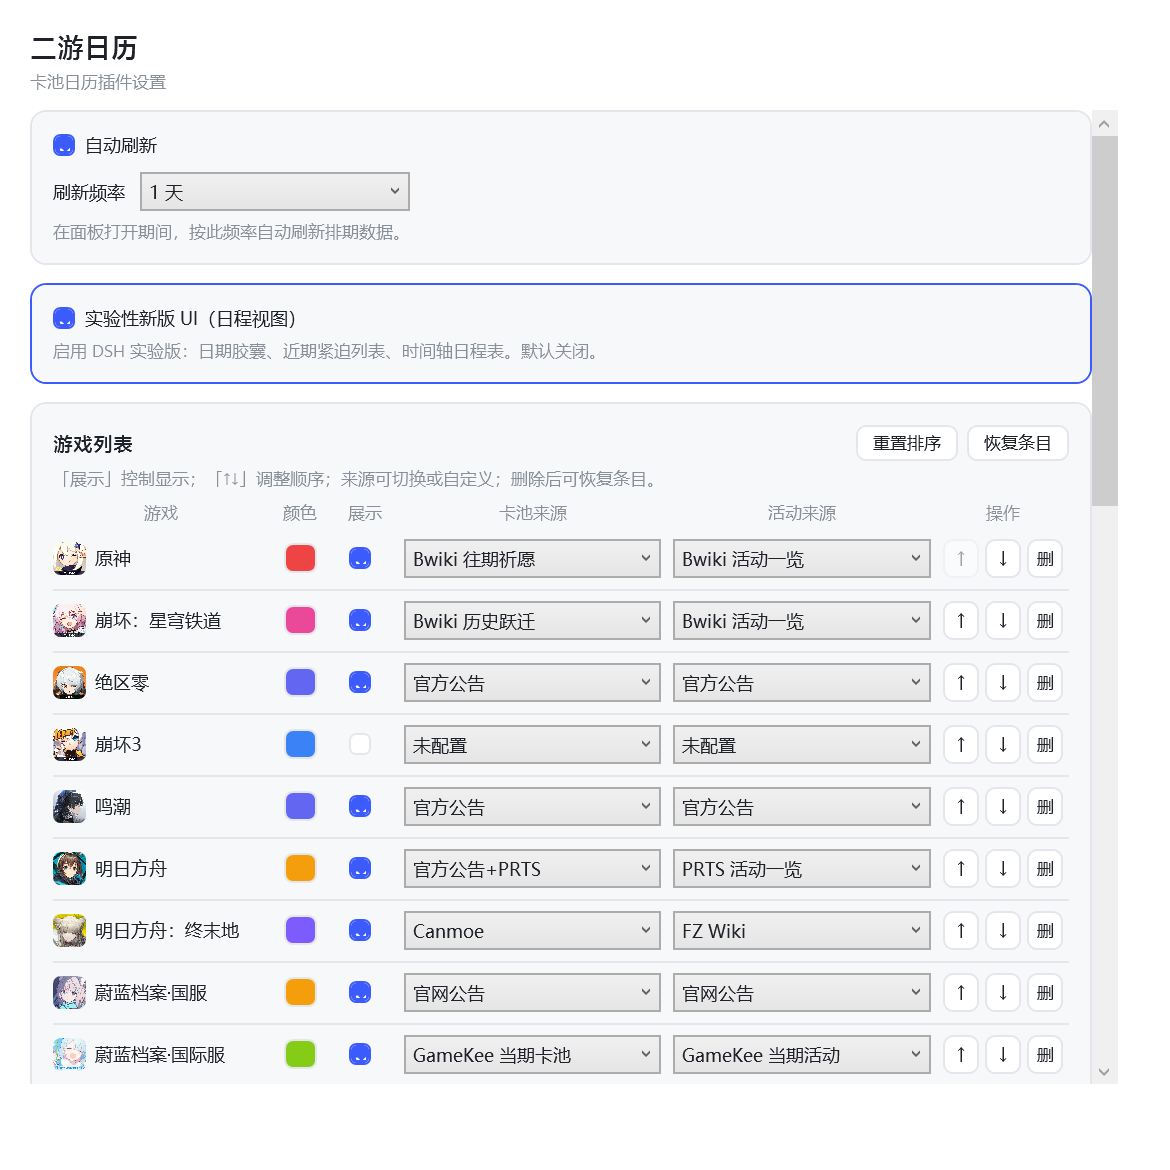
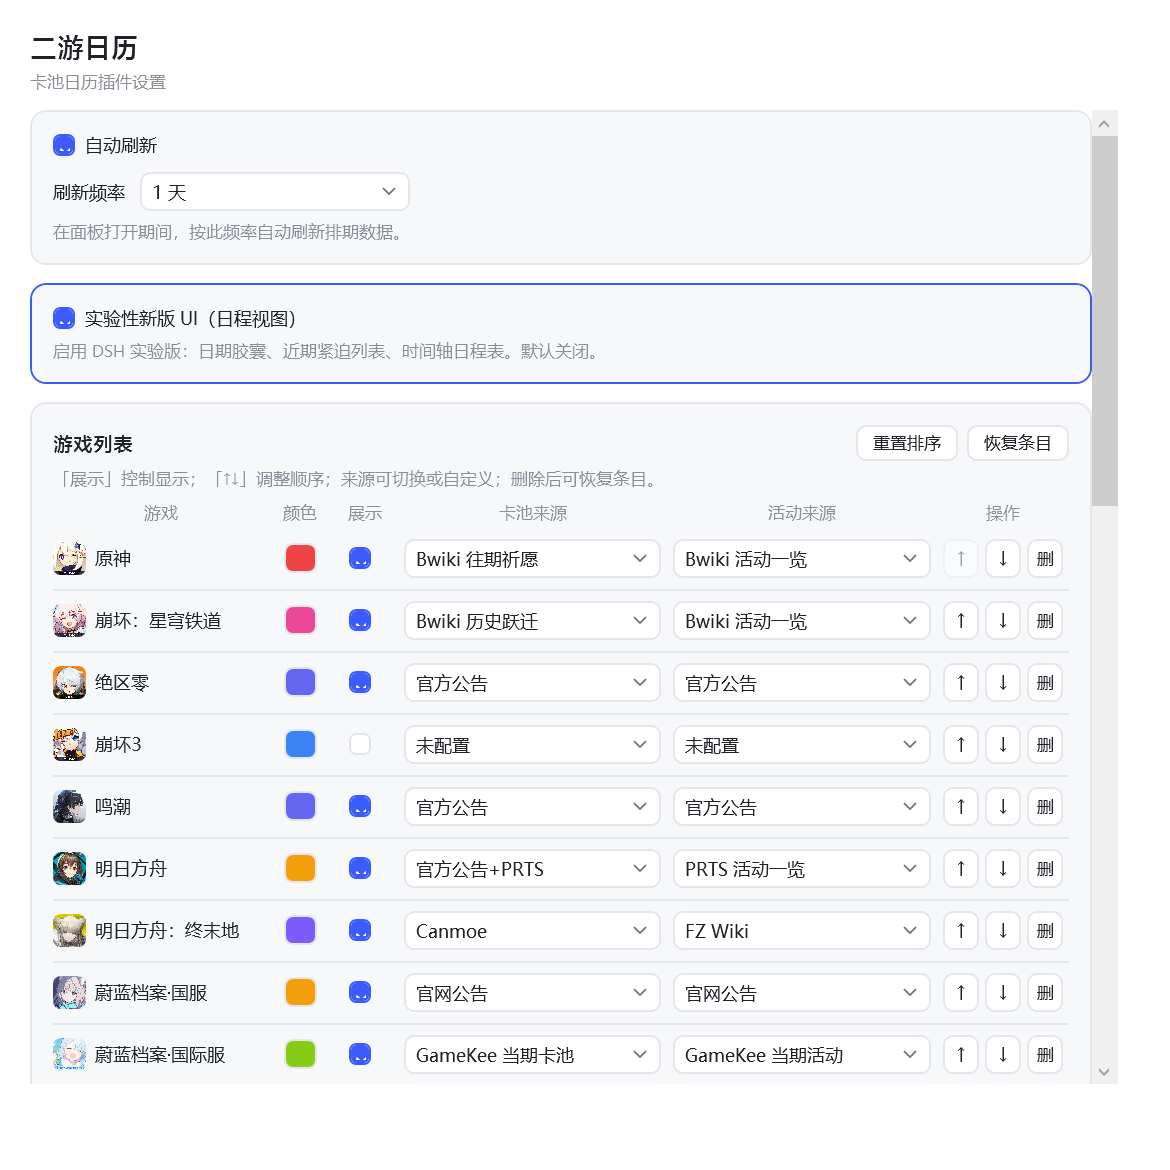
style: v0.1.19 设置页自绘下拉框
- ComboBox 自绘圆角白底/箭头/下拉面板，选中项显示 Label
- ComboBoxItem hover/选中态；选项 ToString 提升可访问性
- 更新设置页截图；版本 0.1.19

验证：dotnet build 0 警告 0 错误；npm test 34/34；npm run check 通过；UIAutomation 实测下拉选择写盘成功

Changed region(s): [[0.3385, 0.4615, 0.8, 0.7077], [0.3385, 0.7385, 0.8, 0.9231], [0.1231, 0.1538, 0.3692, 0.1846]]

diff --git a/src/GachaCalendar/Views/SettingsWindow.xaml b/src/GachaCalendar/Views/SettingsWindow.xaml
@@ -69,11 +69,65 @@
 			<Setter Property="BorderBrush" Value="{DynamicResource PanelBorder}" />
 			<Setter Property="BorderThickness" Value="1" />
 			<Setter Property="VerticalContentAlignment" Value="Center" />
+			<Setter Property="Template">
+				<Setter.Value>
+					<ControlTemplate TargetType="ComboBox">
+						<Grid>
+							<ToggleButton x:Name="Toggle" Focusable="False" ClickMode="Press"
+										  IsChecked="{Binding IsDropDownOpen, RelativeSource={RelativeSource TemplatedParent}, Mode=TwoWay}">
+								<ToggleButton.Template>
+									<ControlTemplate TargetType="ToggleButton">
+										<Border x:Name="Bd" Background="{DynamicResource PanelBg}"
+												BorderBrush="{DynamicResource PanelBorder}" BorderThickness="1" CornerRadius="6">
+											<Path Data="M0,0 L4,4 L8,0" Stroke="{DynamicResource FgDim}" StrokeThickness="1.2"
+												  HorizontalAlignment="Right" VerticalAlignment="Center" Margin="0,0,8,0" />
+										</Border>
+										<ControlTemplate.Triggers>
+											<Trigger Property="IsMouseOver" Value="True">
+												<Setter TargetName="Bd" Property="Background" Value="{DynamicResource HoverBg}" />
+											</Trigger>
+										</ControlTemplate.Triggers>
+									</ControlTemplate>
+								</ToggleButton.Template>
+							</ToggleButton>
+							<ContentPresenter Margin="8,0,24,0" VerticalAlignment="Center" IsHitTestVisible="False"
+											  Content="{Binding SelectedItem.Label, RelativeSource={RelativeSource TemplatedParent}}" />
+							<Popup x:Name="PART_Popup" Placement="Bottom" IsOpen="{TemplateBinding IsDropDownOpen}"
+								   AllowsTransparency="True" Focusable="False" PopupAnimation="Fade">
+								<Border Background="{DynamicResource PanelBg}" BorderBrush="{DynamicResource PanelBorder}"
+										BorderThickness="1" CornerRadius="6" MinWidth="180" MaxHeight="260"
+										Padding="2">
+									<ScrollViewer VerticalScrollBarVisibility="Auto">
+										<ItemsPresenter />
+									</ScrollViewer>
+								</Border>
+							</Popup>
+						</Grid>
+					</ControlTemplate>
+				</Setter.Value>
+			</Setter>
 		</Style>
 		<Style TargetType="ComboBoxItem">
 			<Setter Property="Padding" Value="8,4" />
 			<Setter Property="FontSize" Value="12" />
 			<Setter Property="Foreground" Value="{DynamicResource Fg}" />
+			<Setter Property="Template">
+				<Setter.Value>
+					<ControlTemplate TargetType="ComboBoxItem">
+						<Border x:Name="Bd" Background="Transparent" CornerRadius="4" Padding="8,4">
+							<ContentPresenter Content="{Binding Label}" VerticalAlignment="Center" />
+						</Border>
+						<ControlTemplate.Triggers>
+							<Trigger Property="IsHighlighted" Value="True">
+								<Setter TargetName="Bd" Property="Background" Value="{DynamicResource HoverBg}" />
+							</Trigger>
+							<Trigger Property="IsSelected" Value="True">
+								<Setter TargetName="Bd" Property="Background" Value="{DynamicResource ChipBg}" />
+							</Trigger>
+						</ControlTemplate.Triggers>
+					</ControlTemplate>
+				</Setter.Value>
+			</Setter>
 		</Style>
 		<Style TargetType="TextBox">
 			<Setter Property="Height" Value="26" />

diff --git a/src/GachaCalendar/Models/EntryDto.cs b/src/GachaCalendar/Models/EntryDto.cs
@@ -21,10 +21,12 @@ public sealed class SourceOption
 {
 	public string Label { get; set; } = "";
 	public string Value { get; set; } = "";
+	public override string ToString() => Label;
 }
 
 public sealed class RefreshOption
 {
 	public string Label { get; set; } = "";
 	public int Minutes { get; set; }
+	public override string ToString() => Label;
 }

diff --git a/docs/04-路线图.md b/docs/04-路线图.md
@@ -201,7 +201,14 @@ Fluent/DSH 风格外观已列入 [BACKLOG.md](../BACKLOG.md)。
 - [x] 更新浅/深 newPanel、主面板、设置页 100/150 截图
 - [ ] 同格多档期探头展开
 
-## v0.1.19 · 任务栏体验打磨
+## v0.1.19 · 下拉控件精修（2026-10-21）
+
+- [x] 设置页 ComboBox 自绘圆角白底 + 自绘箭头 + 圆角下拉面板
+- [x] 选中项显示 Label；下拉项 hover/选中态
+- [x] `SourceOption` / `RefreshOption` ToString 提升可访问性
+- [ ] 同格多档期探头展开
+
+## v0.1.20 · 任务栏体验打磨
 
 - [ ] 多显示器：主屏 / 每屏一份（设置项）
 - [ ] 任务栏自动隐藏时跟随（贴屏幕边缘而非消失）
@@ -211,7 +218,7 @@ Fluent/DSH 风格外观已列入 [BACKLOG.md](../BACKLOG.md)。
 - [ ] 点击外部关闭面板、Esc、快捷键（可选 Win+Alt+G）
 - [ ] 电源/锁屏/睡眠恢复后的任务栏重定位
 
-## v0.1.20 · 分发工程化
+## v0.1.21 · 分发工程化
 
 - [ ] `publish` 脚本：自包含 single-file zip + 框架依赖 zip
 - [ ] 安装包（Inno Setup 或 MSIX）：开始菜单、卸载清理自启项
@@ -220,7 +227,7 @@ Fluent/DSH 风格外观已列入 [BACKLOG.md](../BACKLOG.md)。
 - [ ] 性能预算：空闲内存 ≤ 120MB、CPU ≤ 0.1%、启动 ≤ 2s
 - [ ] 首次运行引导：数据从哪来、如何刷新、如何关掉原生小组件避免重叠
 
-## v0.1.21 · 商店与打磨
+## v0.1.22 · 商店与打磨
 
 - [ ] 代码签名（SmartScreen）
 - [ ] Microsoft Store / MSIX 上架评估

diff --git a/README.md b/README.md
@@ -50,7 +50,7 @@
 | 深浅色 token / 视觉验收清单 | ✅ v0.1.10（[验收清单](docs/11-DSH面板复刻验收.md)） |
 | 实验性 newPanel（日程视图） | 🚧 v0.1.12 基础版（设置页可开启） |
 | 颜色取色器 / DPI 截图 / 内置 Node 打包 | ✅ v0.1.13–0.1.14（`tools/publish.ps1`） |
-| 视觉打磨 / 新控件 / 小屏设置窗口 | ✅ v0.1.16–0.1.18 |
+| 视觉打磨 / 新控件 / 小屏设置窗口 | ✅ v0.1.16–0.1.19 |
 | Fluent / DSH 交互细节与视觉回归 | 📋 待办（[#1](https://github.com/EastMG/gacha-calendar/issues/1) / [BACKLOG.md](BACKLOG.md)） |
 | 多显示器、轮播、安装包 | 🚧 v0.1.10+（见[路线图](docs/04-路线图.md)） |
 

diff --git a/CHANGELOG.md b/CHANGELOG.md
@@ -1,5 +1,12 @@
 # CHANGELOG
 
+## v0.1.19 · 2026-10-21
+
+- 设置页下拉框改为自绘圆角控件：白底、细边框、自绘箭头、圆角下拉面板；
+  选中项显示 Label，下拉项自定义 hover/选中态
+- `SourceOption` / `RefreshOption` 覆写 `ToString()`，UIAutomation 名称可读
+- 更新设置页截图；版本 0.1.19
+
 ## v0.1.18 · 2026-10-21
 
 - 字体渲染精修：主面板/newPanel/设置/常驻条统一 Segoe UI Variable + 雅黑回退，
